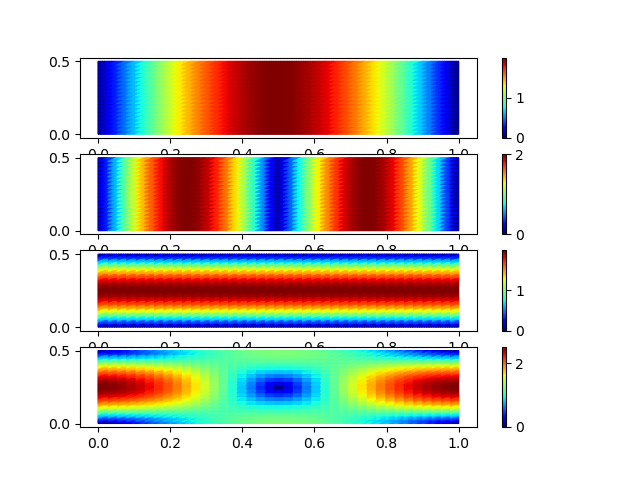
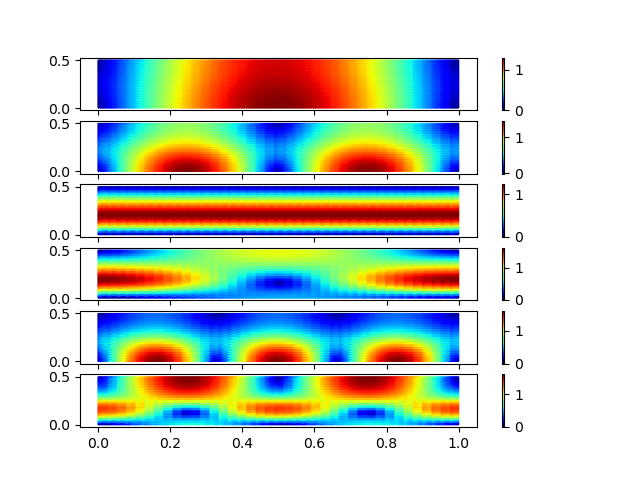
ex46

diff --git a/scikit_fem/ex46.py b/scikit_fem/ex46.py
@@ -14,43 +14,42 @@ mesh_elem = [
         MeshTri.init_tensor(np.linspace(0, 1, 40),
                             np.linspace(0, .5, 20)),
         ElementTriN1() * ElementTriP1(),
+        ElementTriP2(),
     ),
-    #(
-    #    MeshQuad.init_tensor(np.linspace(0, 1, 40) ** 0.9,
-    #                         np.linspace(0, .5, 20)),
-    #    ElementQuadN1() * ElementQuad1(),
-    #),
+    (
+        MeshQuad.init_tensor(np.linspace(0, 1, 40) ** 0.9,
+                             np.linspace(0, .5, 20)),
+        ElementQuadN1() * ElementQuad1(),
+        ElementQuad2(),
+    ),
     (
         MeshTri.init_tensor(np.linspace(0, 1, 20),
                             np.linspace(0, .5, 10)),
         ElementTriN2() * ElementTriP2(),
+        ElementTriP2(),
     ),
 ]
 
 
-for i, (mesh, elem) in enumerate(mesh_elem):
+for i, (mesh, elem, e) in enumerate(mesh_elem):
     basis = Basis(mesh, elem)
 
-    epsilon = lambda x: 1. + 0. * x[0]
-    # epsilon = lambda x: 3 * (x[1] < 0.25) + 1
+    def epsilon(x): return 1. + 0. * x[0]
+    def epsilon(x): return 3 * (x[1] < 0.25) + 1
     one_over_u_r = 1
-
 
     @BilinearForm
     def aform(E, lam, v, mu, w):
         return one_over_u_r * curl(E) * curl(v)
-
 
     @BilinearForm
     def gauge(E, lam, v, mu, w):
         # set div E = 0 using a Lagrange multiplier
         return dot(grad(lam), v) + dot(E, grad(mu))
 
-
     @BilinearForm
     def bform(E, lam, v, mu, w):
         return epsilon(w.x) * dot(E, v)
-
 
     A = aform.assemble(basis)
     B = bform.assemble(basis)
@@ -59,23 +58,22 @@ for i, (mesh, elem) in enumerate(mesh_elem):
     lams, xs = solve(*condense(A + C, B, D=basis.get_dofs()),
                      solver=solver_eigen_scipy_sym(k=6))
 
-
     # compare against analytical eigenvalues
     err1 = np.abs(lams[0] - np.pi ** 2)
     err2 = np.abs(lams[1] - 4. * np.pi ** 2)
     err3 = np.abs(lams[2] - 4. * np.pi ** 2)
 
-
+    print(lams, xs.shape)
     print('TE10 error: {}'.format(err1))
     print('TE01 error: {}'.format(err2))
     print('TE20 error: {}'.format(err3))
     print()
 
-    fig, axs = plt.subplots(4, 1)
-    for itr in range(4):
+    fig, axs = plt.subplots(6, 1)
+    for itr in range(6):
         (E, Ebasis), _ = basis.split(xs[:, itr])
         Ei = Ebasis.interpolate(E)
-        plotbasis = Ebasis.with_element(ElementDG(ElementTriP2()))
+        plotbasis = Ebasis.with_element(ElementDG(e))
         Emag = plotbasis.project(np.sqrt(dot(Ei, Ei)))
         plotbasis.plot(Emag,
                        colorbar=True,
